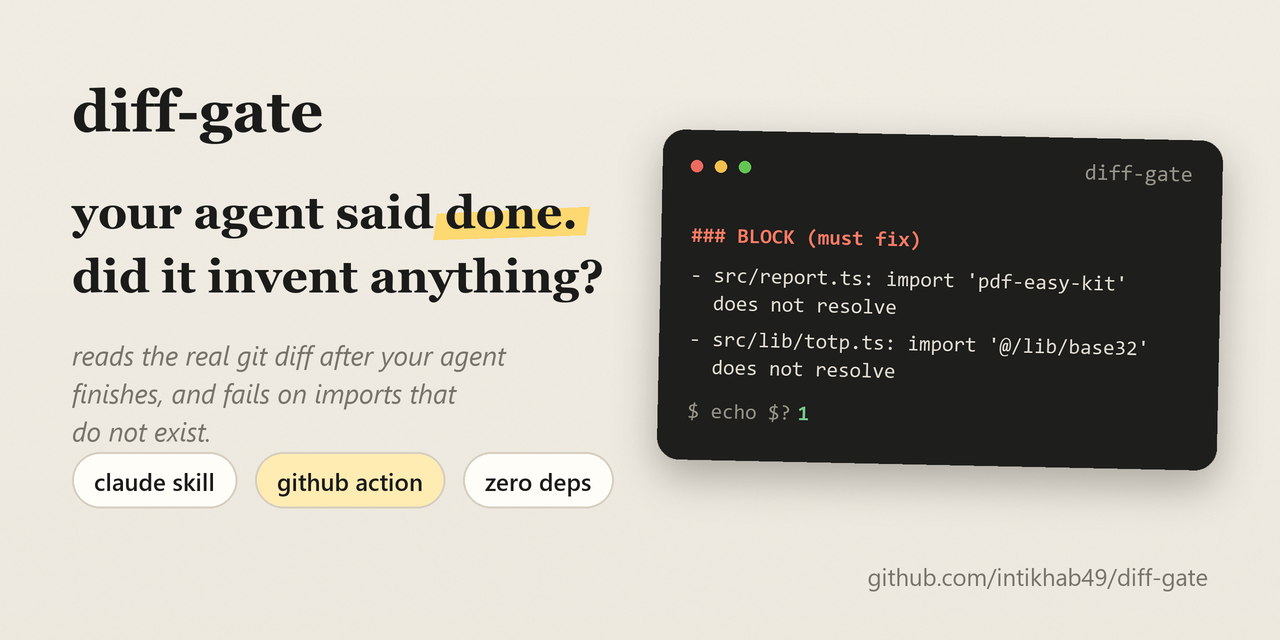
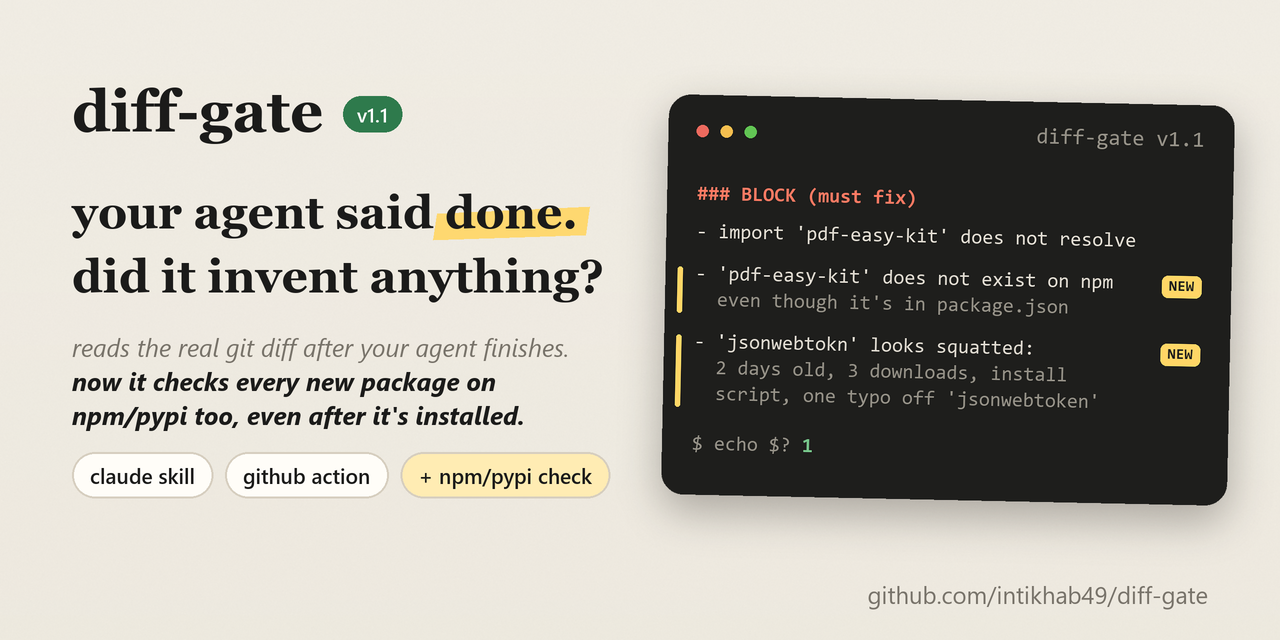
docs: v1.1 hero image (shows the npm registry BLOCKs)

diff --git a/README.md b/README.md
@@ -1,6 +1,6 @@
 <div align="center">
 
-<img src="docs/social-preview.png" alt="diff-gate: catch AI-hallucinated imports before they merge" width="720">
+<img src="docs/social-preview.png" alt="diff-gate v1.1: catch AI-hallucinated imports and packages that do not exist or look squatted, before they merge" width="720">
 
 # diff-gate
 
